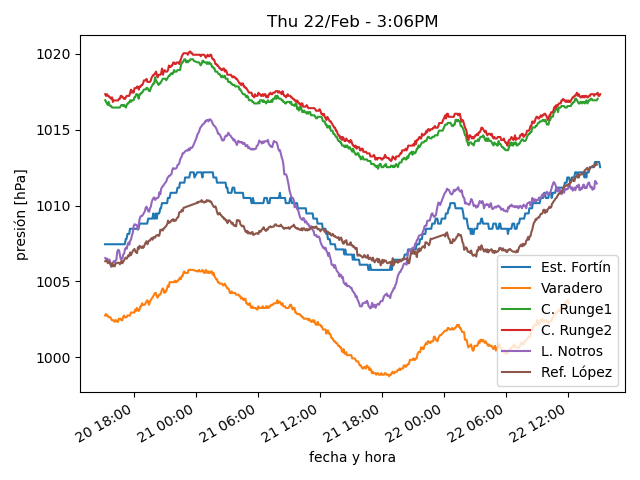
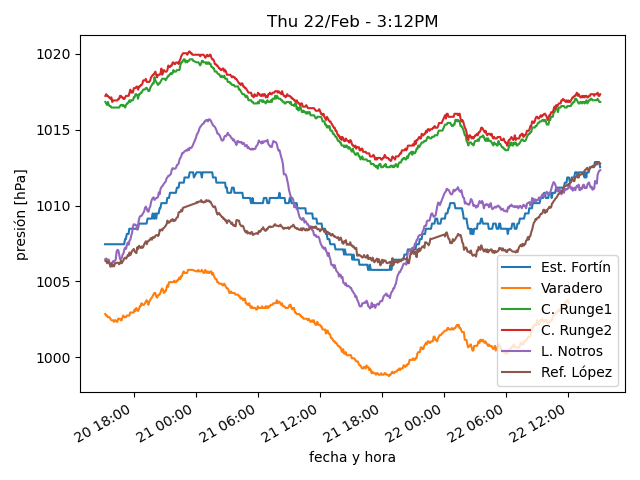
actualiza datos

diff --git a/estaciones/estacion3.html b/estaciones/estacion3.html
@@ -18,32 +18,32 @@
     </tr>
     <tr>
      <td class="stats_data">
-      2:49PM
+      3:04PM
      </td>
     </tr>
     <tr>
      <td class="stats_data">
-      13.6
+      14.0
      </td>
     </tr>
     <tr>
      <td class="stats_data">
-      7.6
+      7.5
      </td>
     </tr>
     <tr>
      <td class="stats_data">
-      66.7
+      65.2
      </td>
     </tr>
     <tr>
      <td class="stats_data">
-      1005.32
+      1005.11
      </td>
     </tr>
     <tr>
      <td class="stats_data">
-      17.7/26.6 WNW
+      15.6/24.5 NW
      </td>
     </tr>
     <tr>
@@ -58,7 +58,7 @@
     </tr>
     <tr>
      <td class="stats_data">
-      750.9
+      730.5
      </td>
     </tr>
    </tbody>

diff --git a/estaciones/estacion6.html b/estaciones/estacion6.html
@@ -18,32 +18,32 @@
     </tr>
     <tr>
      <td class="stats_data">
-      2:45PM
+      3:05PM
      </td>
     </tr>
     <tr>
      <td class="stats_data">
-      4.7
+      4.8
      </td>
     </tr>
     <tr>
      <td class="stats_data">
-      2.9
+      2.6
      </td>
     </tr>
     <tr>
      <td class="stats_data">
-      88.0
+      86.0
      </td>
     </tr>
     <tr>
      <td class="stats_data">
-      1014.09
+      1014.16
      </td>
     </tr>
     <tr>
      <td class="stats_data">
-      16.1/33.8 SSE
+      20.9/35.4 SE
      </td>
     </tr>
     <tr>
@@ -58,7 +58,7 @@
     </tr>
     <tr>
      <td class="stats_data">
-      901.0
+      900.0
      </td>
     </tr>
    </tbody>

diff --git a/estaciones/estacion5.html b/estaciones/estacion5.html
@@ -18,27 +18,27 @@
     </tr>
     <tr>
      <td class="stats_data">
-      2:45PM
+      3:05PM
      </td>
     </tr>
     <tr>
      <td class="stats_data">
-      16.6
+      14.1
      </td>
     </tr>
     <tr>
      <td class="stats_data">
-      8.0
+      7.3
      </td>
     </tr>
     <tr>
      <td class="stats_data">
-      57.0
+      63.0
      </td>
     </tr>
     <tr>
      <td class="stats_data">
-      1014.02
+      1014.9
      </td>
     </tr>
     <tr>
